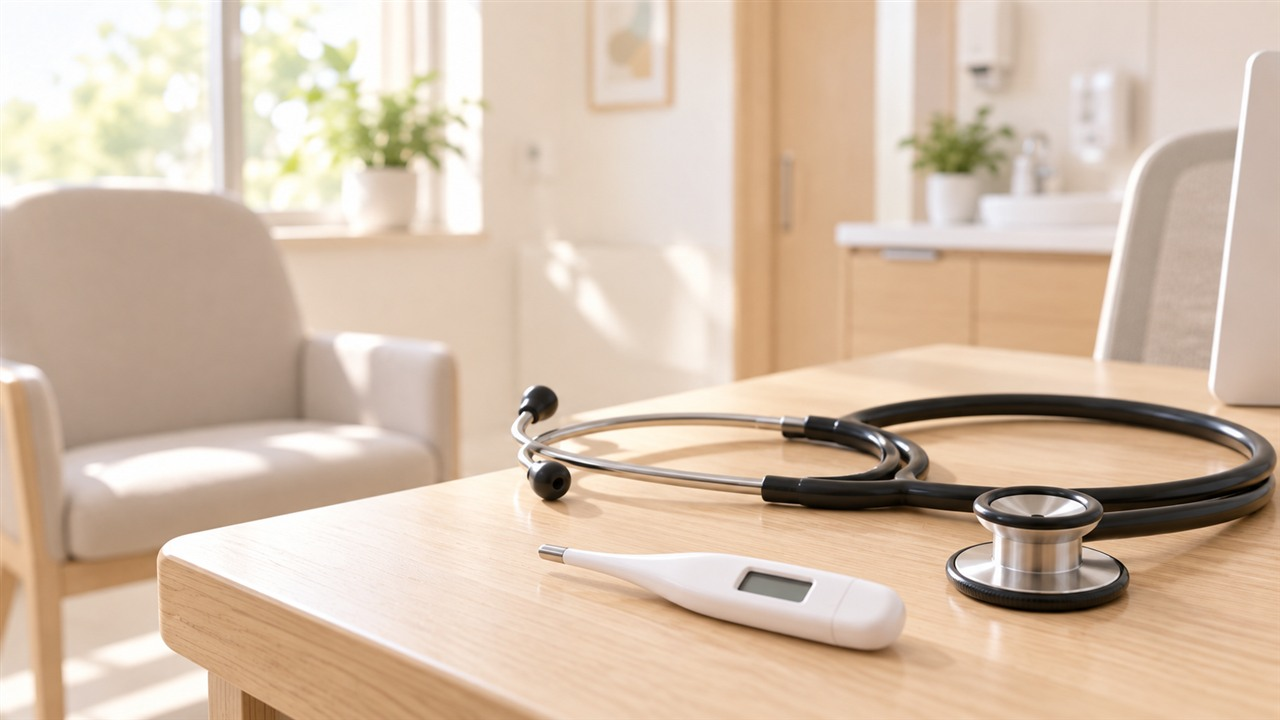
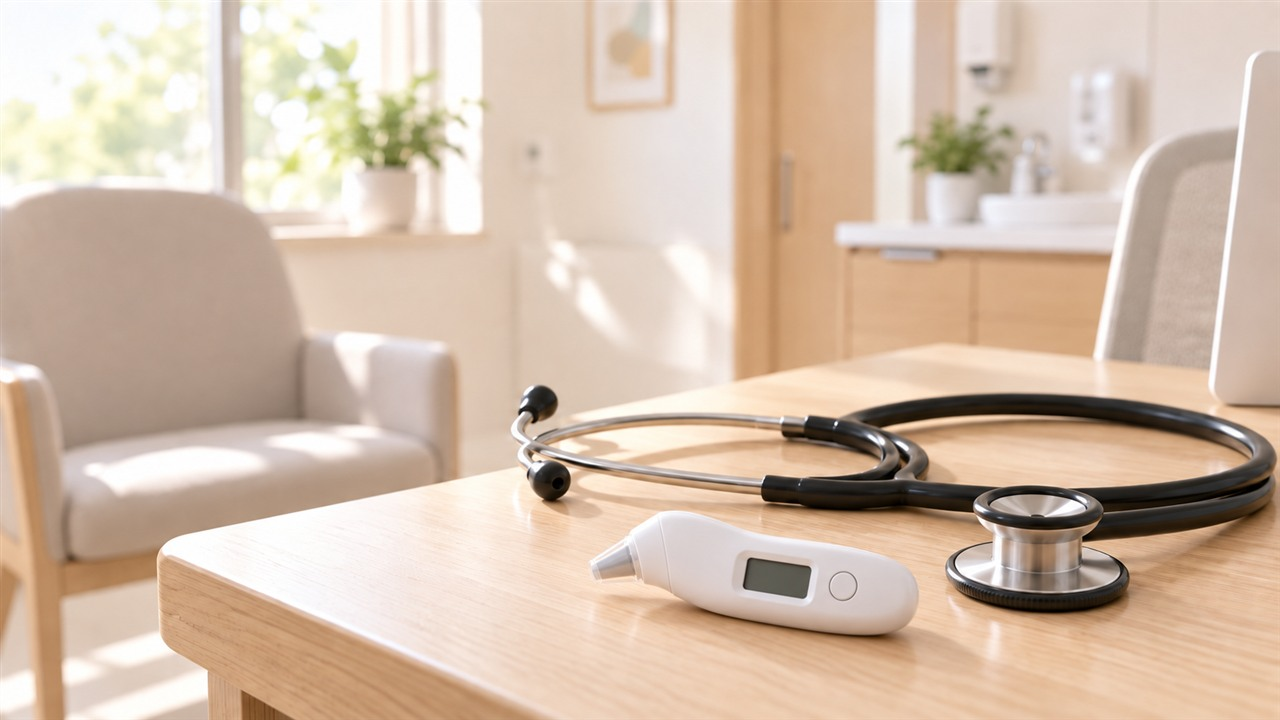
fix: update post03 image and sync captions across Naver and Google posts

Changed region(s): [[0.4062, 0.7028, 0.75, 0.9167], [0.75, 0.55, 0.8125, 0.5806]]

diff --git a/kkuldanji_web/posts/tick-bite-scab-scrub-typhus-symptoms-guide.html b/kkuldanji_web/posts/tick-bite-scab-scrub-typhus-symptoms-guide.html
@@ -1983,7 +1983,7 @@ figure.post-photo-figure figcaption,
 <p style="font-size:1.02rem;line-height:1.9;color:#334155;margin-bottom:22px;">물린 직후에는 자각 증상이 거의 없어 물린 사실조차 모른 채 지나치는 경우가 대부분입니다.</p>
 <p style="font-size:1.02rem;line-height:1.9;color:#334155;margin-bottom:22px;">통상 1~2주의 잠복기를 거치며 체내에서 균이 증식한 뒤에야 전신 증상과 피부 병변이 본격적으로 드러납니다.</p>
 <h2 id="sec2">쯔쯔가무시 환자 다수에서 발견되는 검은 딱지 형태와 자주 물리는 부위</h2>
-<figure class="post-img-wrap post-photo-figure"><img src="../images/posts/tick-bite-scab-scrub-typhus-symptoms-guide/post03.jpg" alt="거울 앞에서 소매 안쪽의 피부를 확인하는 모습" width="1280" height="720" loading="lazy" decoding="async"><figcaption>잘 보이지 않는 피부는 거울을 이용해 확인합니다. 이 사진은 실제 환자의 병변 사진이 아닙니다.</figcaption></figure>
+<figure class="post-img-wrap post-photo-figure"><img src="../images/posts/tick-bite-scab-scrub-typhus-symptoms-guide/post03.jpg" alt="바짓단을 걷고 발목 주변 피부를 살피는 모습" width="1280" height="720" loading="lazy" decoding="async"><figcaption>야외활동 후에는 옷과 양말에 가려졌던 피부도 살펴봅니다. 실제 환자의 병변 사진은 아닙니다.</figcaption></figure>
 <p style="font-size:1.02rem;line-height:1.9;color:#334155;margin-bottom:22px;">쯔쯔가무시증을 판별하는 가장 결정적인 단서는 바로 피부에 생기는 특유의 검은 딱지입니다.</p>
 <p style="font-size:1.02rem;line-height:1.9;color:#334155;margin-bottom:22px;">질병관리청 통계상(2024년 기준) 털진드기 유충에 물린 자리의 검은 딱지 발견율은 약 83.1%이며 크기는 5~20mm 수준으로 형성됩니다.</p>
 <p style="font-size:1.02rem;line-height:1.9;color:#334155;margin-bottom:22px;">이 검은 딱지는 직경 5~20mm 크기로 중심부가 화산 분화구처럼 거뭇하게 굳어 있고 주변에 붉은 홍반 테두리가 둘러집니다.
@@ -1993,7 +1993,7 @@ figure.post-photo-figure figcaption,
 <p style="font-size:1.02rem;line-height:1.9;color:#334155;margin-bottom:22px;">가슴 밑선, 복부 벨트 라인, 둔부 안쪽 등 평소 거울로 잘 보이지 않는 부위도 세심히 살펴야 합니다.</p>
 <div class="custom-data-table-wrap" style="overflow-x:auto;margin:25px 0;"><table class="custom-data-table" style="width:100%;min-width:500px;border-collapse:collapse;"><thead><tr><th>비교 항목</th><th>털진드기 (쯔쯔가무시증)</th><th>참진드기 (SFTS 바이러스)</th><th>단순 모기 물림</th></tr></thead><tbody><tr><td>원인 병원체</td><td>오리엔티아 쯔쯔가무시 세균</td><td>SFTS 바이러스</td><td>모기 타액 내 알레르겐</td></tr><tr><td>물린 직후 체감</td><td>통증 및 가려움 없음 (무통)</td><td>통증 거의 없음 (살에 부착)</td><td>즉시 심한 가려움과 팽진</td></tr><tr><td>피부 병변 특징</td><td>약 83.1%에서 5~20mm 검은 딱지 형성 (부재 가능)</td><td>검은 딱지 불명확, 흡혈 벌레 관찰</td><td>중심점 작은 붉은 부종</td></tr><tr><td>잠복기 기간</td><td>1~2주 (통상 10일 이내)</td><td>5~14일 내 증상 발현</td><td>잠복기 없음 (즉시 반응)</td></tr><tr><td>주요 전신 증상</td><td>38도 이상 고열, 오한, 두통, 발진</td><td>38도 이상 고열, 구토, 설사, 복통</td><td>전신 발열 없음 (국소 반응)</td></tr><tr><td>치료 및 약제</td><td>독시사이클린 항생제 조기 투여</td><td>치료제 없음, 집중 대증치료</td><td>항히스타민제 또는 냉찜질</td></tr></tbody></table></div>
 <h2 id="sec3">살에 박힌 진드기를 발견했을 때 손으로 뜯으면 안 되는 이유와 핀셋 수직 제거법</h2>
-<figure class="post-img-wrap post-photo-figure"><img src="../images/posts/tick-bite-scab-scrub-typhus-symptoms-guide/post02.jpg" alt="끝이 가느다란 핀셋과 거즈, 체온계 정물" width="1280" height="720" loading="lazy" decoding="async"><figcaption>사진은 도구를 소개하는 연출 장면이며, 검은 딱지를 떼어내는 방법을 보여주는 것이 아닙니다.</figcaption></figure>
+<figure class="post-img-wrap post-photo-figure"><img src="../images/posts/tick-bite-scab-scrub-typhus-symptoms-guide/post02.jpg" alt="가느다란 핀셋과 개별 포장 알코올 스왑, 귀 체온계" width="1280" height="720" loading="lazy" decoding="async"><figcaption>개별 포장 알코올 스왑과 핀셋을 담은 연출 사진입니다. 검은 딱지를 떼는 용도로 쓰지 않습니다.</figcaption></figure>
 <p style="font-size:1.02rem;line-height:1.9;color:#334155;margin-bottom:22px;">가을철 야외활동 후 털진드기가 물고 떨어진 자리에 생긴 검은 딱지는 상처 딱지이므로 핀셋으로 억지로 떼어내거나 파내서는 안 됩니다.</p>
 <p style="font-size:1.02rem;line-height:1.9;color:#334155;margin-bottom:22px;">반면 샤워 중 피부에 아직 검은 벌레(참진드기 등)가 단단히 박혀 흡혈 중인 것을 발견했다면 당황하여 손톱으로 뜯어내지 말아야 합니다.</p>
 <p style="font-size:1.02rem;line-height:1.9;color:#334155;margin-bottom:22px;">손으로 진드기를 무리하게 잡아당기거나 비틀면 진드기의 몸통만 뜯겨 나가고 머리와 주둥이(입 부분)가 살 속에 부러져 남게 됩니다.</p>
@@ -2012,7 +2012,7 @@ figure.post-photo-figure figcaption,
 <p style="font-size:1.02rem;line-height:1.9;color:#334155;margin-bottom:22px;">초기에 항생제를 적절히 복용하면 보통 2~3일 이내에 열이 떨어지고 증상이 빠르게 호전됩니다.</p>
 <p style="font-size:1.02rem;line-height:1.9;color:#334155;margin-bottom:22px;">진통소염제만 먹으며 병원을 미루면 폐렴, 신부전, 뇌수막염 등 위험한 합병증으로 악화될 수 있습니다.</p>
 <h2 id="sec5">살인진드기 SFTS와의 차이점과 즉각 응급 진료가 필요한 위험 신호</h2>
-<figure class="post-img-wrap post-photo-figure"><img src="../images/posts/tick-bite-scab-scrub-typhus-symptoms-guide/post04.jpg" alt="청진기와 체온계가 놓인 밝은 진료실" width="1280" height="720" loading="lazy" decoding="async"><figcaption>진료를 받을 때 최근 야외활동 이력과 증상이 시작된 시점을 알립니다.</figcaption></figure>
+<figure class="post-img-wrap post-photo-figure"><img src="../images/posts/tick-bite-scab-scrub-typhus-symptoms-guide/post04.jpg" alt="청진기와 귀 체온계가 놓인 밝은 진료실" width="1280" height="720" loading="lazy" decoding="async"><figcaption>진료를 받을 때 최근 야외활동 이력과 증상이 시작된 시점을 알립니다.</figcaption></figure>
 <p style="font-size:1.02rem;line-height:1.9;color:#334155;margin-bottom:22px;">가을철 진드기 매개 질환 중에는 흔히 살인진드기로 불리는 중증열성혈소판감소증후군도 주의해야 합니다.</p>
 <p style="font-size:1.02rem;line-height:1.9;color:#334155;margin-bottom:22px;">참진드기가 매개하는 SFTS는 검은 딱지가 뚜렷하지 않은 경우가 많고 38도 이상의 고열과 함께 구토와 설사 등 소화기 증상이 동반되며 치명률이 약 15~20%에 이릅니다.</p>
 <p style="font-size:1.02rem;line-height:1.9;color:#334155;margin-bottom:22px;">혈액 검사 시 혈소판과 백혈구가 급감하며 5~14일의 잠복기 후 급격히 증세가 악화될 수 있어 경과가 위중합니다.</p>

diff --git a/꿀단지 네이버/[38]_2026-10-06_진드기-물린자국-쯔쯔가무시/[38]_2026-10-06_진드기-물린자국-쯔쯔가무시_네이버블로그용.html b/꿀단지 네이버/[38]_2026-10-06_진드기-물린자국-쯔쯔가무시/[38]_2026-10-06_진드기-물린자국-쯔쯔가무시_네이버블로그용.html
@@ -192,8 +192,8 @@
         <p>속옷 밴드가 닿는 복부 라인, 가슴 아래쪽, 엉덩이 안쪽 접힌 부위도 세심히 살피는 지혜가 필요합니다.</p>
 
         <div class="img-wrap">
-            <img src="./images/post03.jpg" alt="거울 앞에서 소매 안쪽의 피부를 확인하는 모습" />
-            <div class="img-caption">거울을 보며 눈에 잘 띄지 않는 곳도 확인합니다. 실제 병변을 촬영한 사진은 아닙니다.</div>
+            <img src="./images/post03.jpg" alt="바짓단을 걷고 발목 주변 피부를 살피는 모습" />
+            <div class="img-caption">바짓단을 걷고 발목 주변도 살펴봅니다. 피부 점검 모습을 담은 연출 사진입니다.</div>
         </div>
 
         <div class="sticker-wrap">
@@ -223,8 +223,8 @@
         </div>
 
         <div class="img-wrap">
-            <img src="./images/post02.jpg" alt="끝이 가느다란 핀셋과 거즈, 체온계 정물" />
-            <div class="img-caption">가느다란 핀셋과 거즈를 담은 연출 사진입니다. 딱지를 뜯는 용도로 쓰지 않습니다.</div>
+            <img src="./images/post02.jpg" alt="가느다란 핀셋과 개별 포장 알코올 스왑, 귀 체온계" />
+            <div class="img-caption">개별 포장 알코올 스왑과 핀셋을 담은 연출 사진입니다. 검은 딱지를 떼는 용도로 쓰지 않습니다.</div>
         </div>
 
         <div class="sticker-wrap">
@@ -258,7 +258,7 @@
         <p>접수 창구에서 최근 2주 이내에 등산이나 풀밭 나들이를 다녀왔다는 사실을 꼭 전달하시기 바랍니다.</p>
 
         <div class="img-wrap">
-            <img src="./images/post04.jpg" alt="청진기와 체온계가 놓인 밝은 진료실" />
+            <img src="./images/post04.jpg" alt="청진기와 귀 체온계가 놓인 밝은 진료실" />
             <div class="img-caption">진료실에서는 어디에 다녀왔는지, 언제부터 불편했는지 전합니다.</div>
         </div>
 
